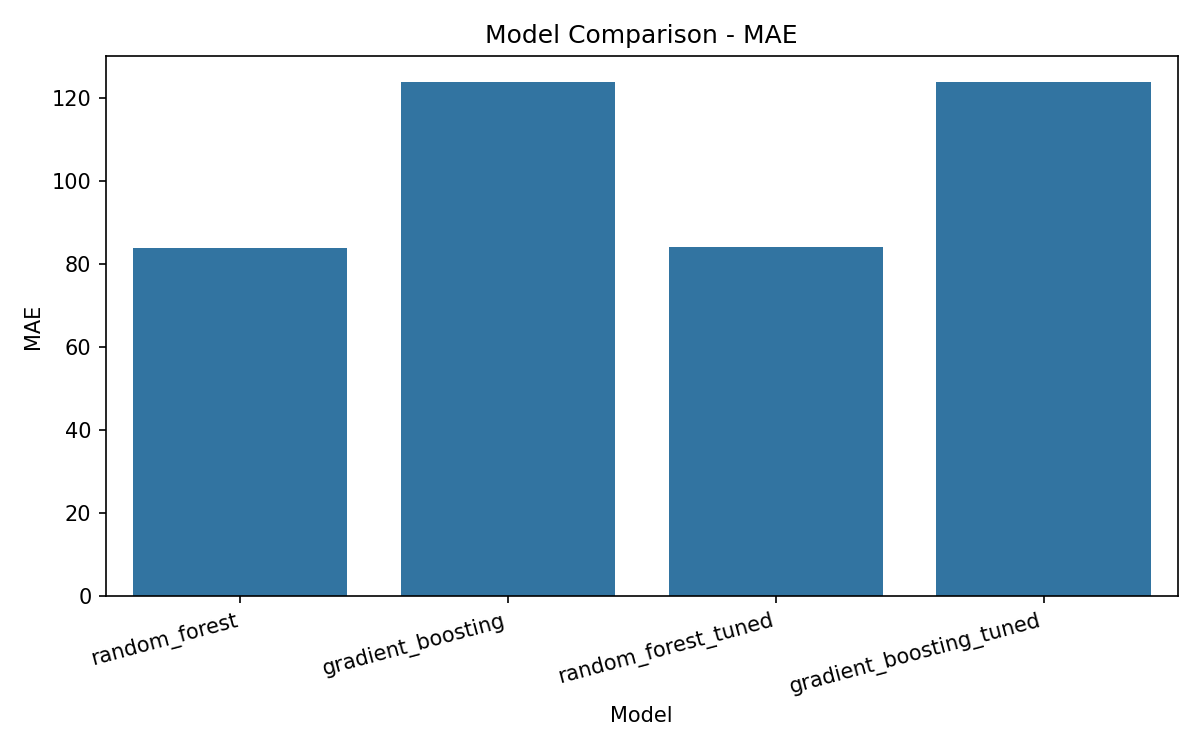
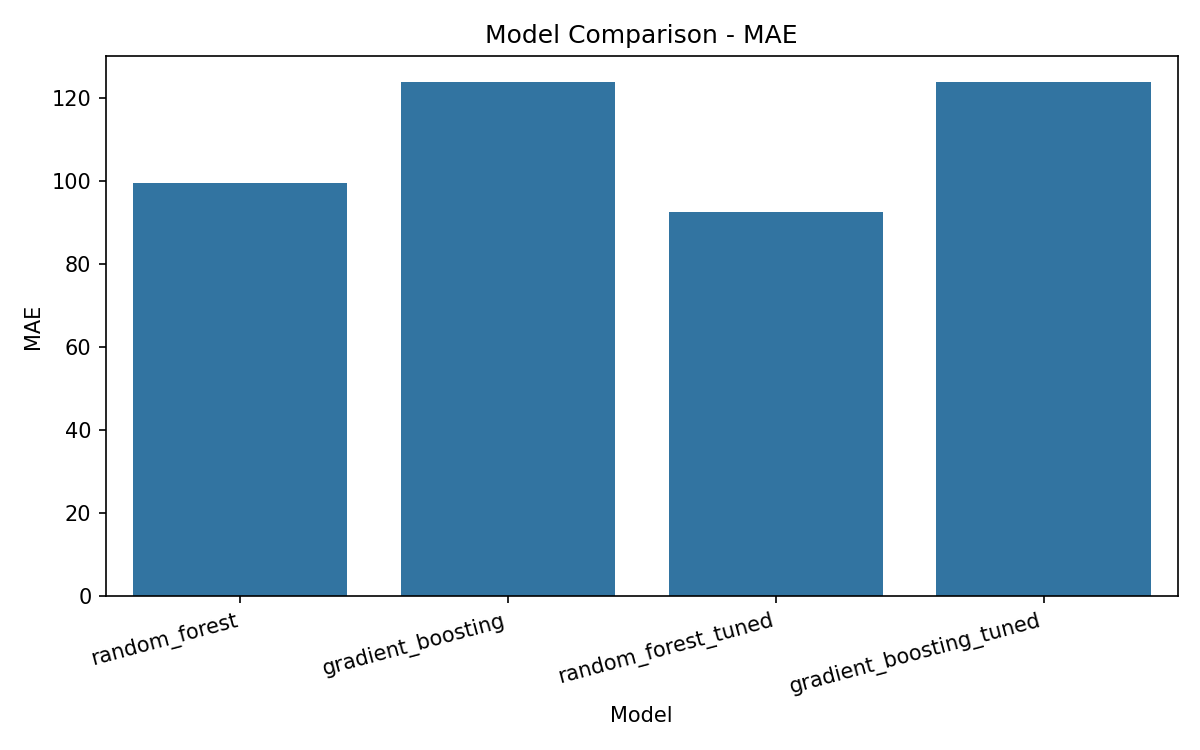
Regularize Random Forest for file size, update results with new best model (Gradient Boosting)

Changed region(s): [[0.0925, 0.2453, 0.3083, 0.3373], [0.555, 0.276, 0.74, 0.3373]]

diff --git a/src/models/model_trainer.py b/src/models/model_trainer.py
@@ -20,7 +20,8 @@ class ModelTrainer:
       
         self.models: Dict[str, object] = {
             "random_forest": RandomForestRegressor(
-                n_estimators=300, max_depth=None, random_state=random_state, n_jobs=-1
+                n_estimators=100, max_depth=12,min_samples_leaf=5,
+    min_samples_split=10, random_state=random_state, n_jobs=-1
             ),
             "gradient_boosting": GradientBoostingRegressor(
                 n_estimators=200, max_depth=3, learning_rate=0.1, random_state=random_state

diff --git a/src/config.py b/src/config.py
@@ -50,11 +50,11 @@ CV_FOLDS = 5
 # Hyperparameter grids
 
 RANDOM_FOREST_PARAM_GRID = {
-    "n_estimators": [100, 200],
-    "max_depth": [None, 8, 15],
-    "min_samples_split": [2, 5],
+    "n_estimators": [100, 150],
+    "max_depth": [8, 12, 15],
+    "min_samples_leaf": [3, 5, 10],
+    "min_samples_split": [10, 20],
 }
-
 GRADIENT_BOOSTING_PARAM_GRID = {
     "n_estimators": [100, 200],
     "max_depth": [2, 3],
